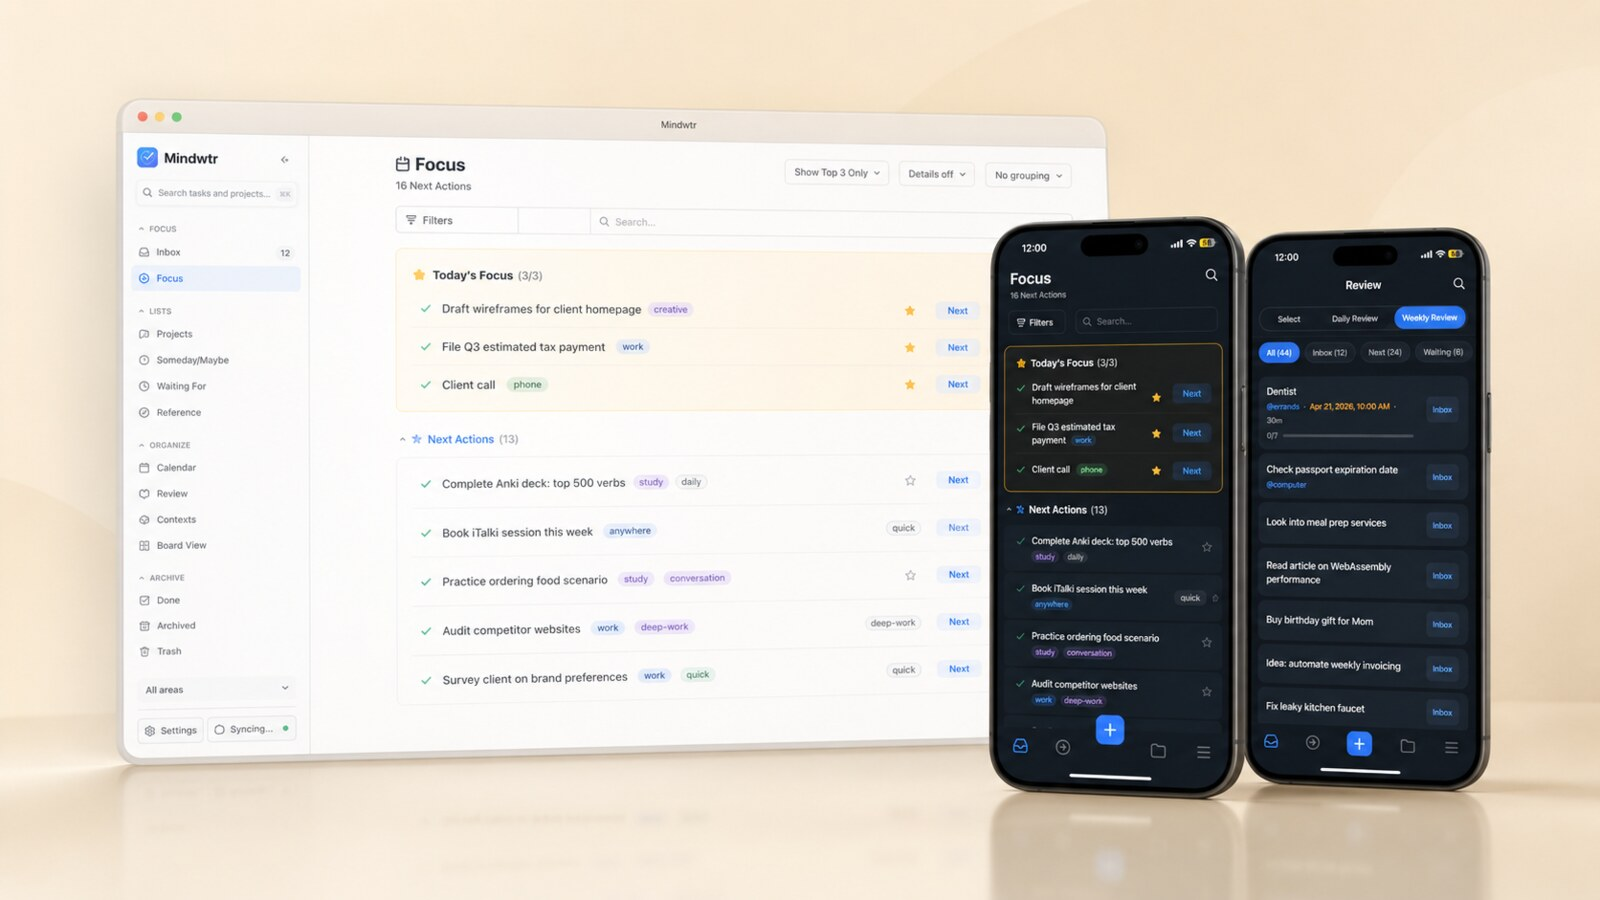
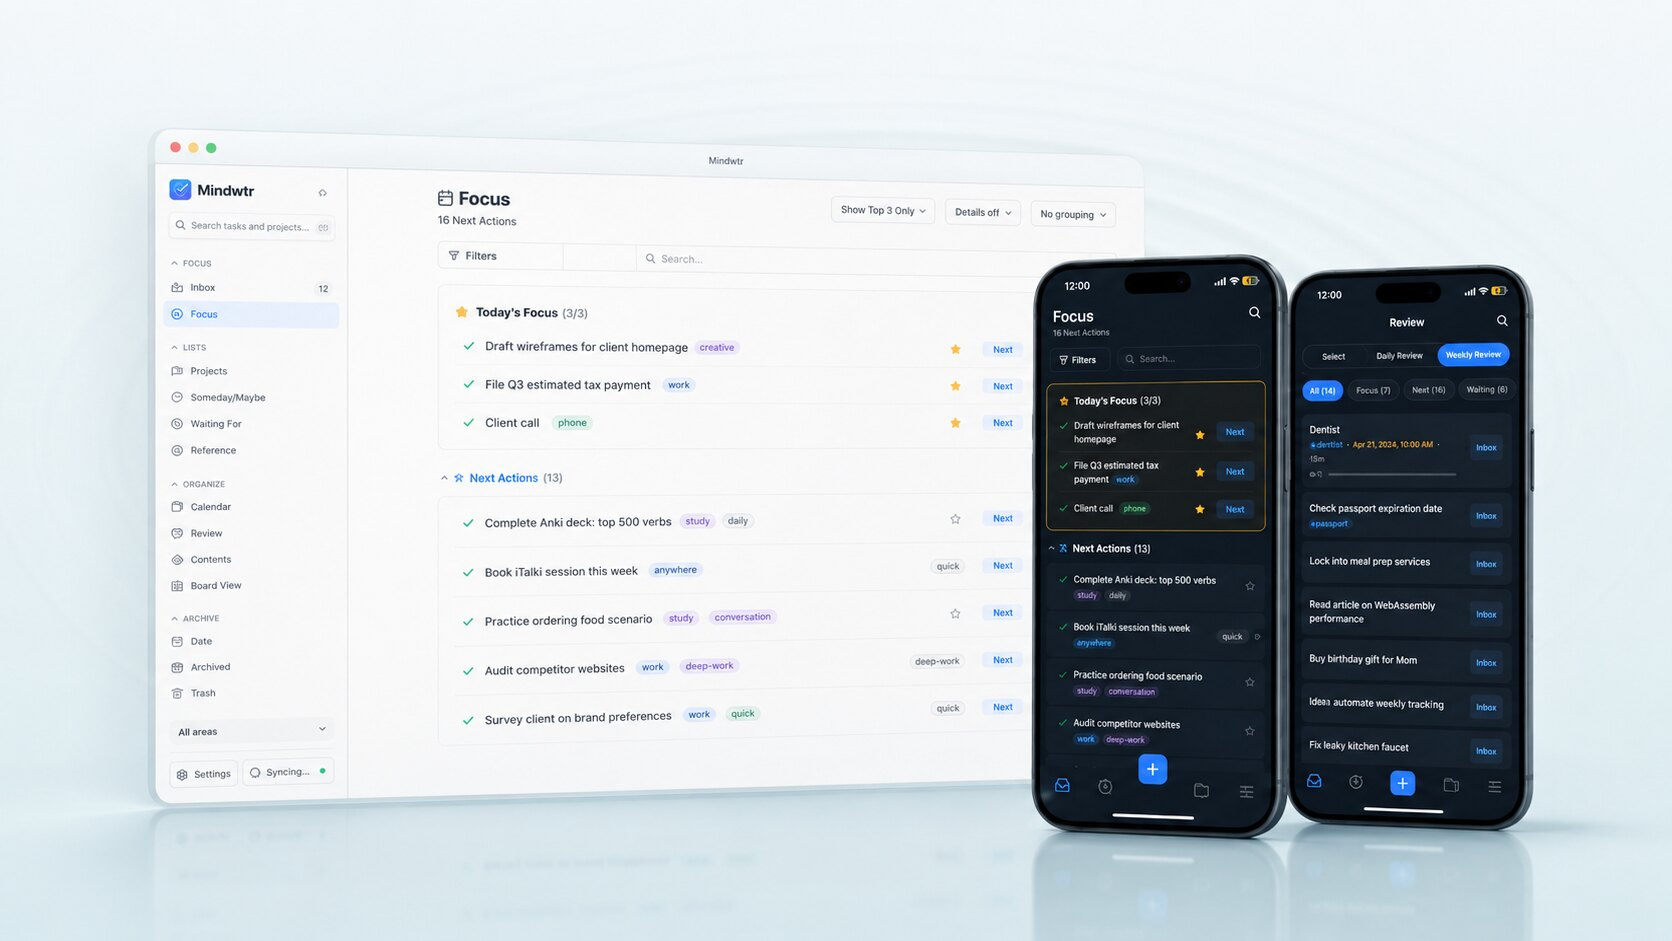
fix: cool hero image, uniform download badges, clean gallery, subtle docs scrollbar
- hero: swap the warm-backdrop showcase for a cool clear-water version that
  matches the new palette
- download: normalize store badges on visible logo height so Google Play and
  F-Droid no longer render smaller than the rest
- platforms gallery: replace the cream/purple promo graphics with clean,
  light-theme app screenshots (Projects, mobile Board, Calendar) pulled from
  the app repo
- docs: replace the heavy default sidebar scrollbar with a thin, subtle one

diff --git a/landing/src/styles.css b/landing/src/styles.css
@@ -564,12 +564,12 @@ h2 {
 
 .platform-gallery img:nth-child(2) {
   aspect-ratio: 4 / 5;
-  object-position: 70% center;
+  object-position: center top;
 }
 
 .platform-gallery img:nth-child(3) {
   aspect-ratio: 4 / 3;
-  object-position: center;
+  object-position: left center;
 }
 
 /* Trust ------------------------------------------------------------------- */
@@ -638,8 +638,9 @@ h2 {
 .download-grid {
   display: grid;
   grid-template-columns: repeat(4, minmax(0, 1fr));
-  gap: 30px 34px;
+  gap: 26px 30px;
   align-items: center;
+  justify-items: center;
 }
 
 .store-badge,
@@ -648,15 +649,14 @@ h2 {
   align-items: center;
   justify-content: center;
   width: 100%;
-  max-width: 260px;
-  height: 78px;
+  max-width: 232px;
+  height: 72px;
   min-height: 0;
   border: 0;
   border-radius: 0;
   padding: 0;
   background: transparent;
   box-shadow: none;
-  justify-self: center;
   transition:
     opacity 180ms ease,
     transform 180ms ease;
@@ -668,39 +668,42 @@ h2 {
   transform: translateY(-2px);
 }
 
+/* Normalize on the visible logo height. Each store's official badge bakes in
+   a different amount of transparent padding, so per-badge heights compensate
+   to make the logos read at one consistent size. */
 .store-badge img {
-  width: min(var(--badge-width), 100%);
-  max-height: 74px;
-  height: auto;
+  height: var(--badge-h, 52px);
+  width: auto;
+  max-width: 100%;
   object-fit: contain;
 }
 
 .store-badge.apple {
-  --badge-width: 198px;
+  --badge-h: 54px;
 }
 
 .store-badge.google {
-  --badge-width: 188px;
+  --badge-h: 66px;
 }
 
 .store-badge.microsoft {
-  --badge-width: 226px;
+  --badge-h: 50px;
 }
 
 .store-badge.flathub {
-  --badge-width: 214px;
+  --badge-h: 54px;
 }
 
 .store-badge.snap {
-  --badge-width: 214px;
+  --badge-h: 56px;
 }
 
 .store-badge.fdroid {
-  --badge-width: 188px;
+  --badge-h: 66px;
 }
 
 .store-badge.izzy {
-  --badge-width: 230px;
+  --badge-h: 54px;
 }
 
 .github-download {
@@ -896,11 +899,7 @@ h2 {
   .store-badge,
   .github-download {
     max-width: 100%;
-    height: 72px;
-  }
-
-  .store-badge img {
-    max-height: 64px;
+    height: 68px;
   }
 
   .github-download {

diff --git a/docs/.vitepress/theme/custom.css b/docs/.vitepress/theme/custom.css
@@ -75,6 +75,41 @@ body,
 
 .VPSidebar {
   border-right: 1px solid var(--vp-c-gutter);
+  scrollbar-width: thin;
+  scrollbar-color: rgba(76, 106, 114, 0.32) transparent;
+}
+
+.VPSidebar::-webkit-scrollbar {
+  width: 7px;
+}
+
+.VPSidebar::-webkit-scrollbar-track {
+  background: transparent;
+}
+
+.VPSidebar::-webkit-scrollbar-thumb {
+  background-color: rgba(76, 106, 114, 0.28);
+  border-radius: 999px;
+  border: 2px solid transparent;
+  background-clip: padding-box;
+}
+
+.VPSidebar:hover::-webkit-scrollbar-thumb,
+.VPSidebar::-webkit-scrollbar-thumb:hover {
+  background-color: rgba(76, 106, 114, 0.45);
+}
+
+.dark .VPSidebar {
+  scrollbar-color: rgba(167, 195, 194, 0.3) transparent;
+}
+
+.dark .VPSidebar::-webkit-scrollbar-thumb {
+  background-color: rgba(167, 195, 194, 0.24);
+}
+
+.dark .VPSidebar:hover::-webkit-scrollbar-thumb,
+.dark .VPSidebar::-webkit-scrollbar-thumb:hover {
+  background-color: rgba(167, 195, 194, 0.4);
 }
 
 @media (min-width: 960px) {

diff --git a/landing/index.html b/landing/index.html
@@ -166,8 +166,8 @@
         </div>
         <div class="platform-gallery" aria-label="Mindwtr across devices">
           <img src="/assets/screenshots/desktop-projects.png" alt="Mindwtr desktop Projects view" />
-          <img src="/assets/screenshots/mobile-capture.png" alt="Mindwtr mobile capture screen" />
-          <img src="/assets/screenshots/tablet-project.png" alt="Mindwtr tablet project screen" />
+          <img src="/assets/screenshots/mobile-board.png" alt="Mindwtr mobile Board view" />
+          <img src="/assets/screenshots/desktop-calendar.png" alt="Mindwtr desktop Calendar view" />
         </div>
       </section>
 